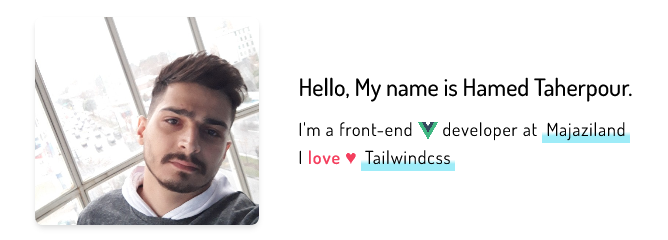
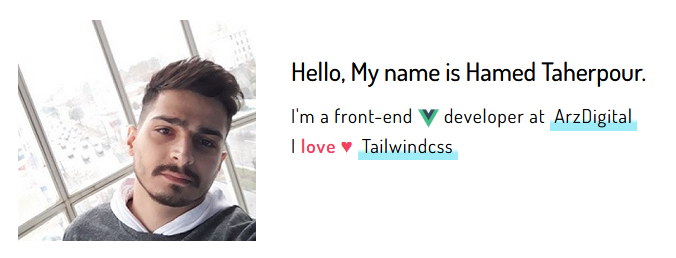
update

Changed region(s): [[0.0, 0.0583, 0.3892, 0.9625], [0.4192, 0.2333, 0.9581, 0.7292]]

diff --git a/project/src/App.vue b/project/src/App.vue
@@ -3,33 +3,13 @@
     <div class="h-full flex flex-col justify-center">
       <div
         id="profile"
-        class="
-          flex flex-col
-          md:p-4
-          md:flex-row
-          md:items-center
-          md:justify-center
-          md:gap-x-4
-        "
+        class="flex flex-col md:p-4 md:flex-row md:items-center md:justify-center md:gap-x-4"
       >
         <img
           src="/img/avatar.jpg"
           title="This is me"
           alt="Hamed Taherpour"
-          class="
-            block
-            mx-auto
-            md:mx-px
-            w-52 md:w-56
-            h-52
-            rounded-full
-            md:rounded-none
-            object-cover
-            transform
-            transition
-            hover:rotate-3
-            duration-300
-          "
+          class="block mx-auto md:mx-px w-52 md:w-56 h-52 rounded-full md:rounded-none object-cover transform transition hover:rotate-3 duration-300"
         />
         <div class="p-4">
           <h1 class="text-2xl font-medium">
@@ -39,10 +19,14 @@
             I'm a front-end
             <img class="w-5 inline-block" src="/public/img/vue_logo.png" />
             developer at
-            <a href="https://arzdigital.com" class="text-link" target="_blank">ArzDigital</a>
+            <a href="https://arzdigital.com" class="text-link" target="_blank"
+              >ArzDigital</a
+            >
             <br />
             I <span class="mr-1 text-rose-500 font-semibold">love ♥</span>
-            <a href="https://tailwindcss.com/" class="text-link" target="_blank">Tailwindcss</a>
+            <a href="https://tailwindcss.com/" class="text-link" target="_blank"
+              >Tailwindcss</a
+            >
           </h3>
           <div class="flex flex-wrap justify-start items-center gap-x-4 mt-5">
             <a
@@ -50,12 +34,7 @@
               href="https://join.skype.com/invite/iZ84fXhcShAo"
               target="_blank"
             >
-              <img
-                class="w-6"
-                src="/img/skype.png"
-                alt="skype"
-                title="skype"
-              />
+              <img class="w-6" src="/img/skype.png" alt="skype" title="skype" />
             </a>
             <a
               class="transform transition hover:rotate-12 hover:scale-110"

diff --git a/index.html b/index.html
@@ -16,9 +16,8 @@
   <link rel="stylesheet" href="/font/fontiran.css" />
   <link href="https://fonts.googleapis.com/css2?family=Dosis:wght@200;300;400;500;600;700;800&display=swap"
     rel="stylesheet">
-  <script type="module" crossorigin src="/assets/index.a7e28042.js"></script>
-  <link rel="modulepreload" href="/assets/vendor.785d97a1.js">
-  <link rel="stylesheet" href="/assets/index.d2962505.css">
+  <script type="module" crossorigin src="/assets/index.396d6e19.js"></script>
+  <link rel="stylesheet" href="/assets/index.772efc84.css">
 </head>
 
 <body>
